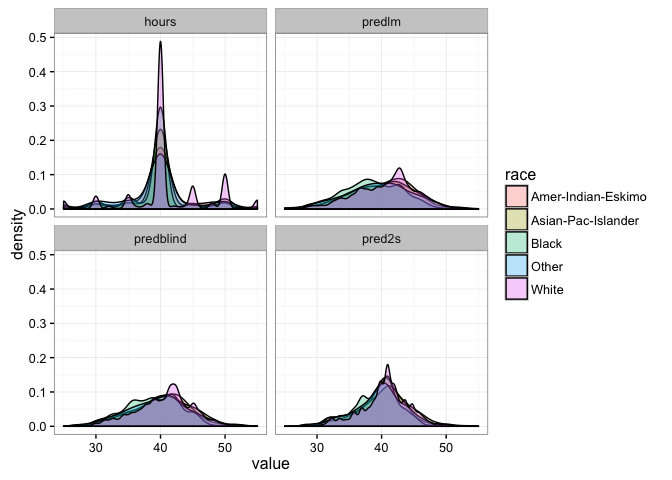
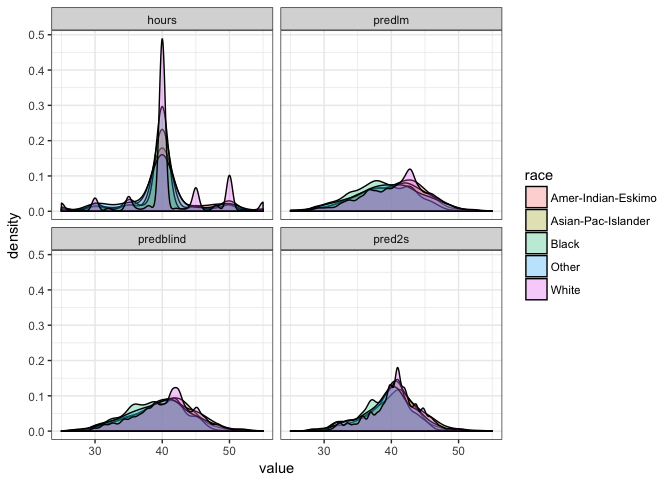
svm prediction

diff --git a/adult.md b/adult.md
@@ -171,4 +171,82 @@ ggplot(pd, aes(value, fill = race)) + geom_density(alpha = .3) +
 
 ![](adult_files/figure-markdown_github/unnamed-chunk-10-1.png)
 
+``` r
+library(e1071)
+model.svm <- svm(preds1 ~ .-race-sex-hours, data)
+predicted_res <- predict(model.svm, data)
+output$pred_svm<-predicted_res+ mean(data$hours)
+```
+
+Visualise svm vs. other results
+
+``` r
+pd <- melt(output[,c("sex", "race", "hours", "pred2s", "predblind", "pred_svm")])
+```
+
+    ## Using sex, race as id variables
+
+``` r
+ggplot(pd, aes(value, fill = sex)) + geom_density(alpha = .3) +
+  facet_wrap(~variable) + xlim(25, 55) + theme_bw()
+```
+
+    ## Warning: Removed 6080 rows containing non-finite values (stat_density).
+
+![](adult_files/figure-markdown_github/unnamed-chunk-12-1.png)
+
+``` r
+ggplot(pd, aes(value, fill = race)) + geom_density(alpha = .3) +
+  facet_wrap(~variable) + xlim(25, 55) + theme_bw()
+```
+
+    ## Warning: Removed 6080 rows containing non-finite values (stat_density).
+
+![](adult_files/figure-markdown_github/unnamed-chunk-12-2.png)
+
+``` r
+output %>%
+  summarise(average = mean((hours-mean(hours))^2),
+            lm = mean((hours-predlm)^2),
+            blinded = mean((hours-predblind)^2),
+            twostage = mean((hours-pred2s)^2),
+            twostage_svm= mean((hours-pred_svm)^2))
+```
+
+    ##    average       lm  blinded twostage twostage_svm
+    ## 1 152.4543 129.6325 132.4799 134.1809      127.735
+
+``` r
+output %>% group_by(sex) %>%
+  summarise(actual = mean(hours),
+            lm = mean(predlm),
+            blinded = mean(predblind),
+            twostage = mean(pred2s),
+            twostage_svm= mean((pred_svm)))
+```
+
+    ## # A tibble: 2 × 6
+    ##      sex   actual       lm  blinded twostage twostage_svm
+    ##   <fctr>    <dbl>    <dbl>    <dbl>    <dbl>        <dbl>
+    ## 1 Female 36.41036 36.41036 38.54483 39.38567     39.80094
+    ## 2   Male 42.42809 42.42809 41.37300 40.95736     40.30702
+
+``` r
+output %>% group_by(race) %>%
+  summarise(actual = mean(hours),
+            lm = mean(predlm),
+            blinded = mean(predblind),
+            twostage = mean(pred2s),
+            twostage_svm= mean((pred_svm)))
+```
+
+    ## # A tibble: 5 × 6
+    ##                 race   actual       lm  blinded twostage twostage_svm
+    ##               <fctr>    <dbl>    <dbl>    <dbl>    <dbl>        <dbl>
+    ## 1 Amer-Indian-Eskimo 40.04823 40.04823 39.71544 39.69122     39.66589
+    ## 2 Asian-Pac-Islander 40.12705 40.12705 40.41519 40.57280     40.26540
+    ## 3              Black 38.42286 38.42286 38.77550 39.20871     39.60916
+    ## 4              Other 39.46863 39.46863 39.52478 39.70708     39.29336
+    ## 5              White 40.68910 40.68910 40.64191 40.58586     40.20803
+
 Lichman, M. 2013. “UCI Machine Learning Repository.” University of California, Irvine, School of Information; Computer Sciences. <http://archive.ics.uci.edu/ml>.
